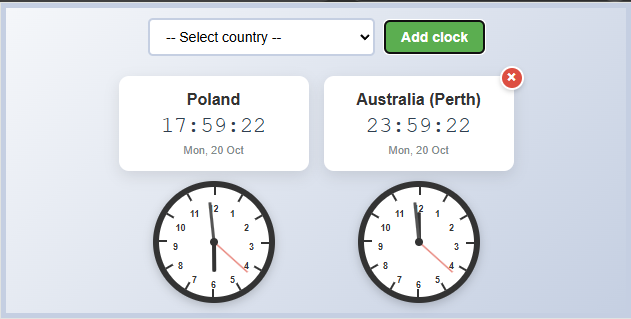
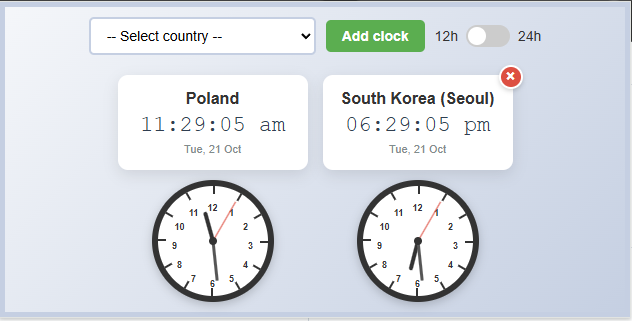
feat: time format

diff --git a/popup.html b/popup.html
@@ -59,6 +59,56 @@
         cursor: not-allowed;
       }
 
+      .time-format-switch {
+        display: flex;
+        align-items: center;
+        gap: 5px;
+      }
+
+      .switch-label {
+        display: flex;
+        align-items: center;
+        gap: 8px;
+        font-size: 14px;
+        color: #333;
+        cursor: pointer;
+        user-select: none;
+      }
+
+      .switch-label input[type="checkbox"] {
+        display: none;
+      }
+
+      .slider {
+        position: relative;
+        width: 44px;
+        height: 22px;
+        background: #ccc;
+        border-radius: 22px;
+        transition: background 0.3s;
+        cursor: pointer;
+      }
+
+      .slider::before {
+        content: "";
+        position: absolute;
+        width: 18px;
+        height: 18px;
+        border-radius: 50%;
+        background: white;
+        top: 2px;
+        left: 2px;
+        transition: transform 0.3s;
+      }
+
+      .switch-label input[type="checkbox"]:checked + .slider {
+        background: #4caf50;
+      }
+
+      .switch-label input[type="checkbox"]:checked + .slider::before {
+        transform: translateX(22px);
+      }
+
       .container {
         margin-top: 20px;
         display: flex;
@@ -210,6 +260,14 @@
         <option value="">-- Select country --</option>
       </select>
       <button id="add-clock-btn">Add clock</button>
+      <div class="time-format-switch">
+        <label class="switch-label">
+          <span>12h</span>
+          <input type="checkbox" id="time-format-toggle" />
+          <span class="slider"></span>
+          <span>24h</span>
+        </label>
+      </div>
     </div>
 
     <div class="container" id="clocks-container">

diff --git a/popup.js b/popup.js
@@ -109,11 +109,13 @@ const COUNTRIES = [
 const MAX_CLOCKS = 3;
 let activeClocks = [];
 let updateInterval;
+let use24HourFormat = true; // Default to 24-hour format
 
 // Initialization
 document.addEventListener("DOMContentLoaded", () => {
   populateCountrySelect();
   loadClocks();
+  loadTimeFormat();
   setupEventListeners();
   startClockUpdates();
 });
@@ -144,6 +146,9 @@ function getSortedCountryEntries() {
 // Setup event listeners
 function setupEventListeners() {
   document.getElementById("add-clock-btn").addEventListener("click", addClock);
+  document
+    .getElementById("time-format-toggle")
+    .addEventListener("change", handleTimeFormatChange);
 }
 
 // Load clocks from localStorage
@@ -158,6 +163,23 @@ function loadClocks() {
     ];
   }
   renderClocks();
+}
+
+// Load time format from localStorage
+function loadTimeFormat() {
+  const saved = localStorage.getItem("timeFormat");
+  if (saved !== null) {
+    use24HourFormat = saved === "24";
+  }
+  // Update checkbox state (checked = 24h)
+  document.getElementById("time-format-toggle").checked = use24HourFormat;
+}
+
+// Handle time format change
+function handleTimeFormatChange(event) {
+  use24HourFormat = event.target.checked;
+  localStorage.setItem("timeFormat", use24HourFormat ? "24" : "12");
+  updateClocks(); // Refresh all clocks immediately
 }
 
 // Save clocks to localStorage
@@ -315,7 +337,7 @@ function updateDigitalClock(clockId, date, country) {
   const displayLocale = "en-GB";
   const time = date.toLocaleString(displayLocale, {
     timeZone: country.timezone,
-    hour12: false,
+    hour12: !use24HourFormat,
     hour: "2-digit",
     minute: "2-digit",
     second: "2-digit",

diff --git a/README.md b/README.md
@@ -33,3 +33,10 @@ Notes for developers
   - `icon.png` — extension icon
 - The extension forces the digital display to English (`en-GB`) for consistent Latin numerals and English weekday/month names.
 - The country select is shown alphabetically in the popup while the internal `COUNTRIES` array keeps stable indices so saved preferences don't break.
+
+Time format (12/24h)
+
+- The popup includes a toggle that switches between 12-hour (AM/PM) and 24-hour formats.
+- The toggle is located next to the country selector and the "Add clock" button.
+- The user's choice is saved in `localStorage` under the key `timeFormat` and uses the values `"12"` or `"24"`.
+- By default the extension uses 24-hour format.
